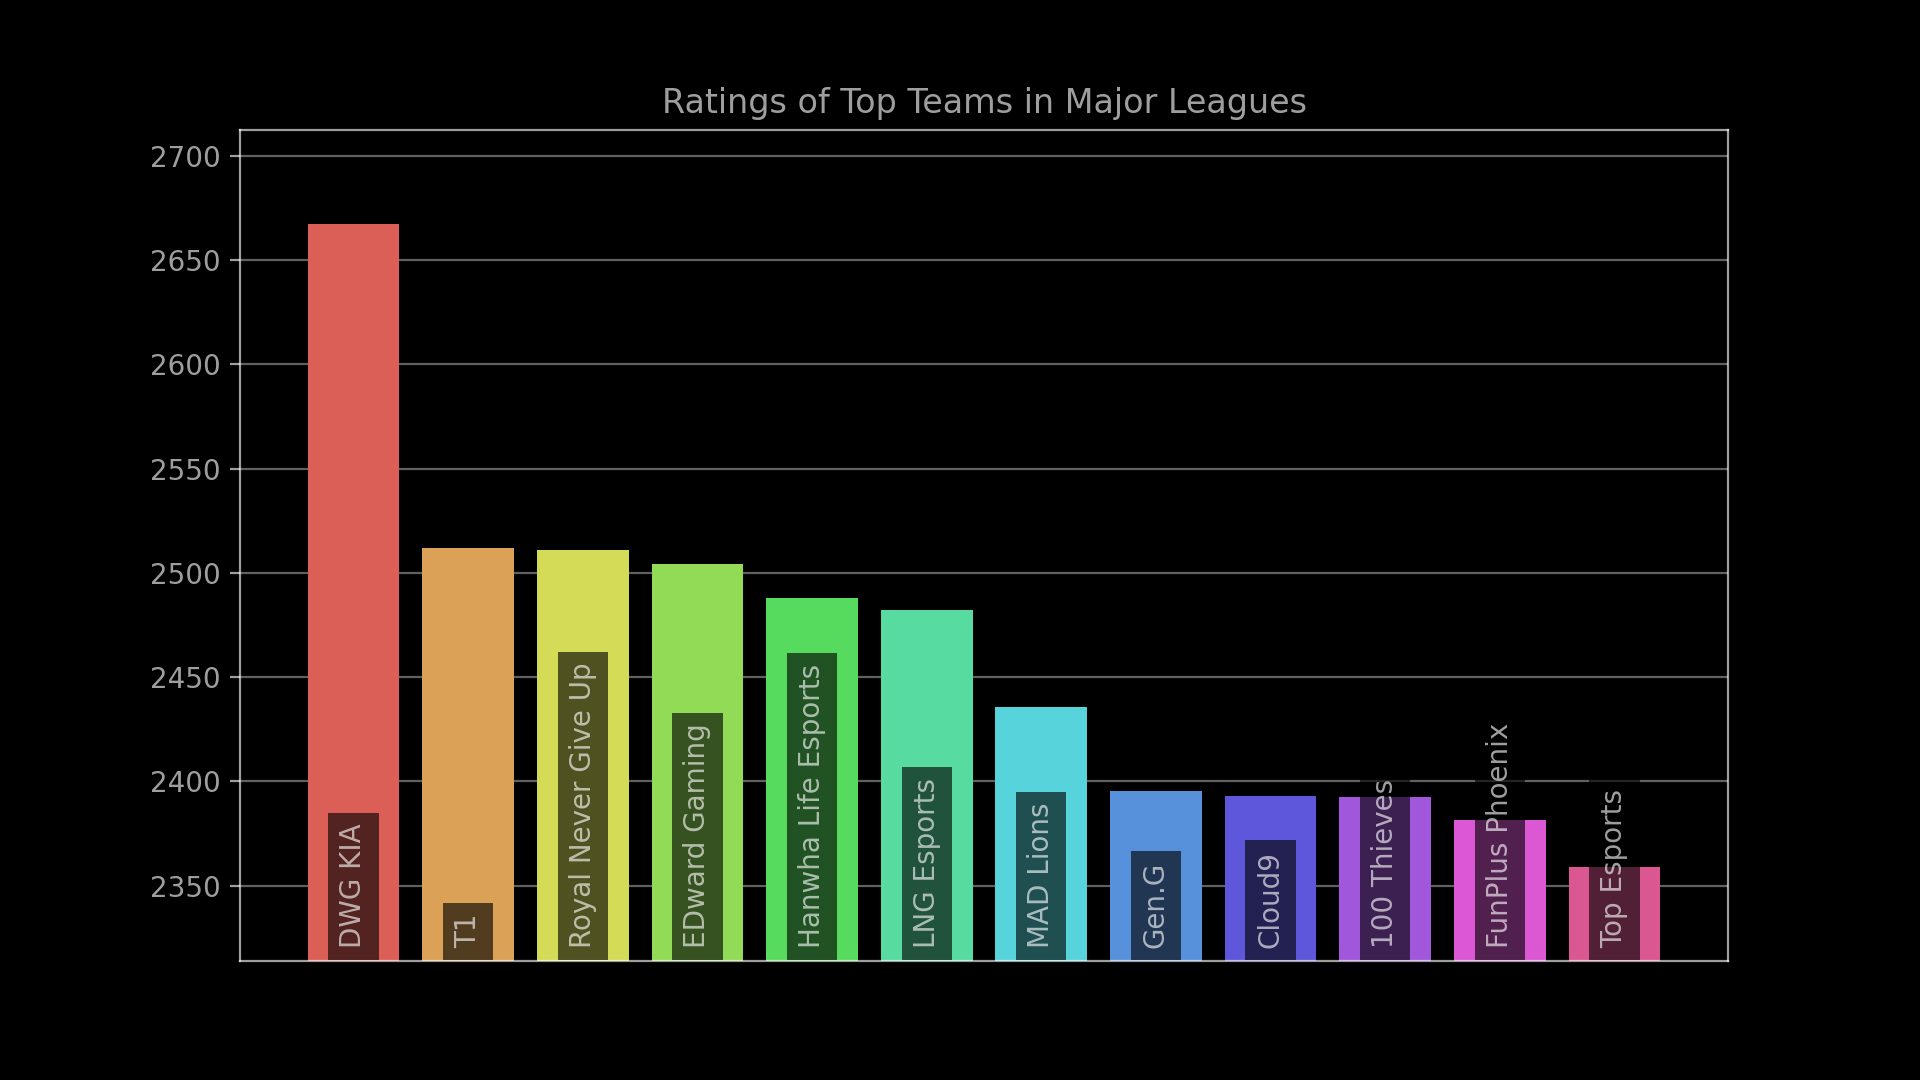
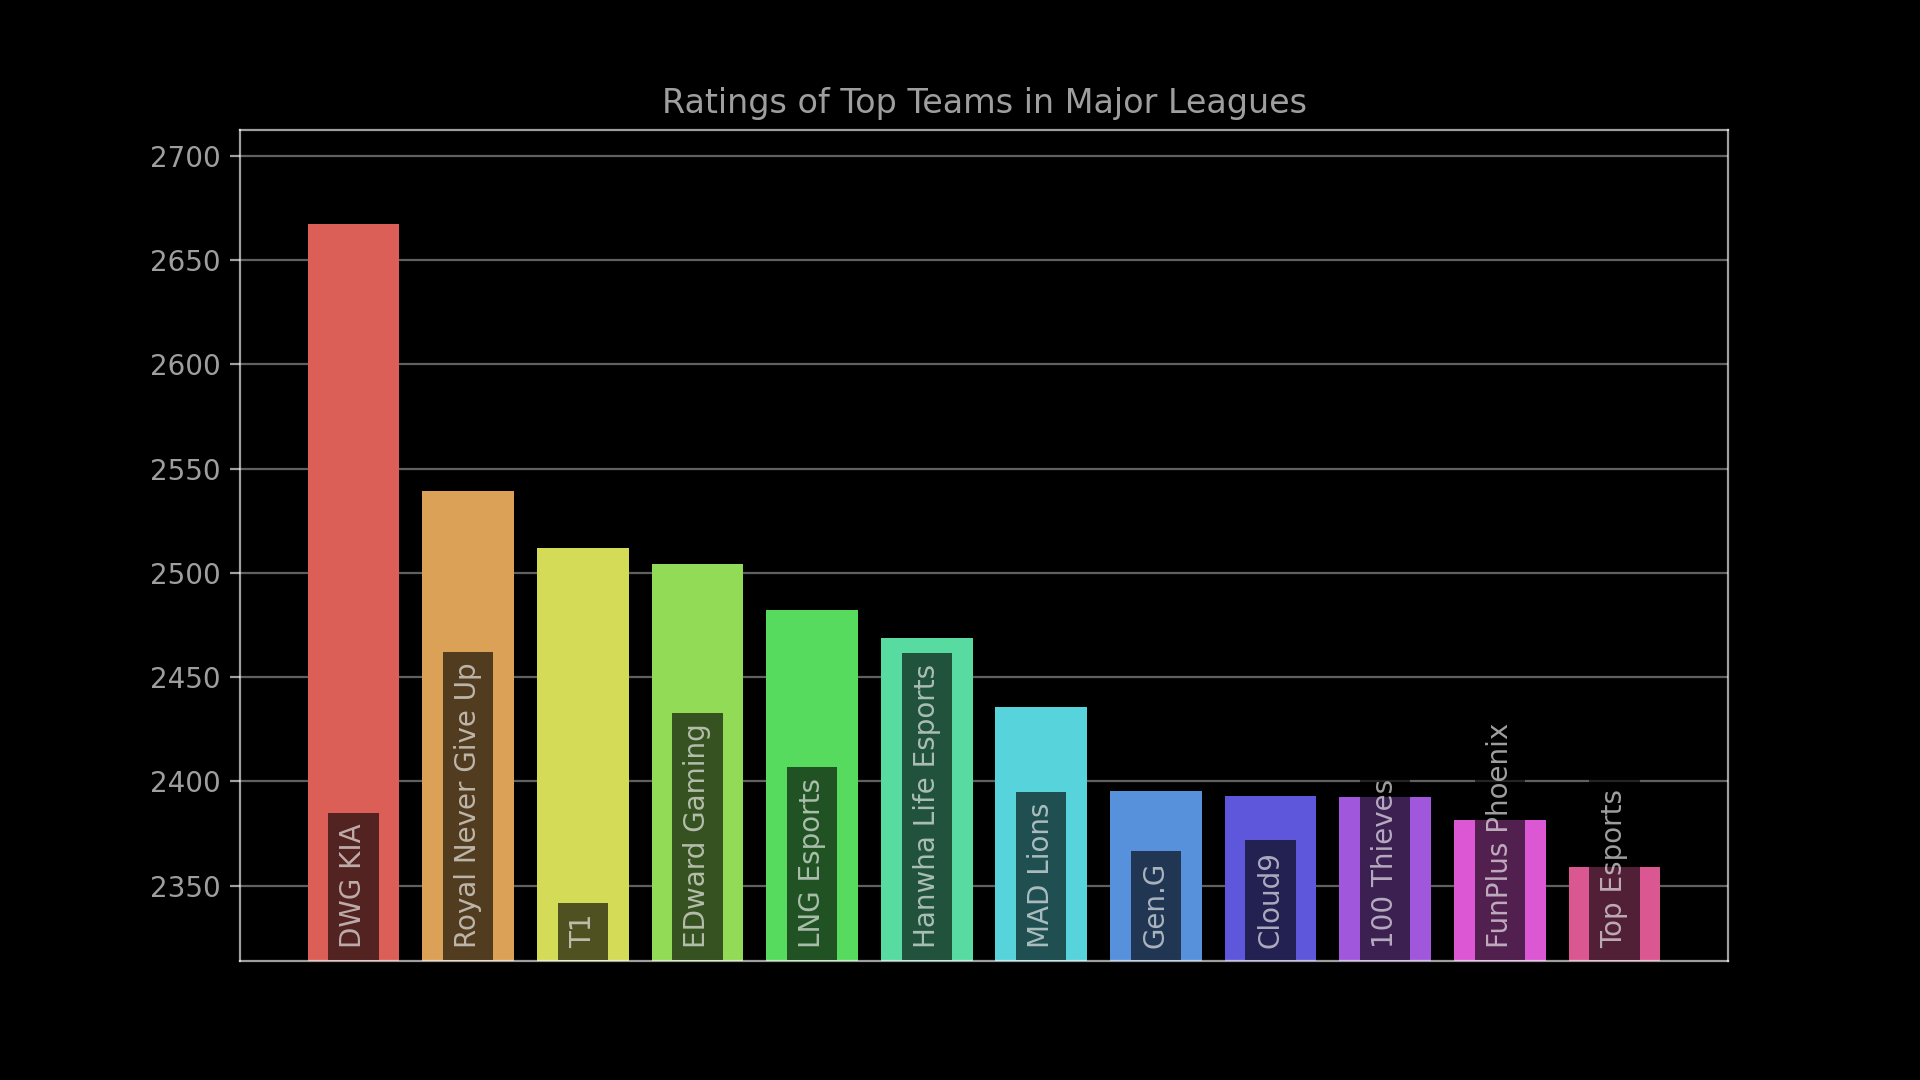
Update rating charts for 2021-10-17 19:00:00.

Changed region(s): [[0.2188, 0.5806, 0.3438, 0.8861], [0.4062, 0.55, 0.5312, 0.8861], [0.2188, 0.4278, 0.2812, 0.5194]]

diff --git a/index.html b/index.html
@@ -77,11 +77,11 @@
             </thead>
             <tbody class="list">
                 <tr><td style="text-align: right">1</td><td class="name">DWG KIA</td><td class="league" style="text-align: center">LCK</td><td class="rating" style="text-align: center">2667.5</td><td class="diff" style="text-align: center; white-space: nowrap"><span style="color: #4CAF50">&plus;105.2</span></td></tr>
-            <tr><td style="text-align: right">2</td><td class="name">T1</td><td class="league" style="text-align: center">LCK</td><td class="rating" style="text-align: center">2511.7</td><td class="diff" style="text-align: center; white-space: nowrap"><span style="color: #4CAF50">&plus;98.2</span></td></tr>
-            <tr><td style="text-align: right">3</td><td class="name">Royal Never Give Up</td><td class="league" style="text-align: center">LPL</td><td class="rating" style="text-align: center">2510.7</td><td class="diff" style="text-align: center; white-space: nowrap"><span style="color: #F44336">&minus;14.9</span></td></tr>
+            <tr><td style="text-align: right">2</td><td class="name">Royal Never Give Up</td><td class="league" style="text-align: center">LPL</td><td class="rating" style="text-align: center">2539.1</td><td class="diff" style="text-align: center; white-space: nowrap"><span style="color: #4CAF50">&plus;13.4</span></td></tr>
+            <tr><td style="text-align: right">3</td><td class="name">T1</td><td class="league" style="text-align: center">LCK</td><td class="rating" style="text-align: center">2511.7</td><td class="diff" style="text-align: center; white-space: nowrap"><span style="color: #4CAF50">&plus;98.2</span></td></tr>
             <tr><td style="text-align: right">4</td><td class="name">EDward Gaming</td><td class="league" style="text-align: center">LPL</td><td class="rating" style="text-align: center">2504.1</td><td class="diff" style="text-align: center; white-space: nowrap"><span style="color: #F44336">&minus;32.3</span></td></tr>
-            <tr><td style="text-align: right">5</td><td class="name">Hanwha Life Esports</td><td class="league" style="text-align: center">LCK</td><td class="rating" style="text-align: center">2487.7</td><td class="diff" style="text-align: center; white-space: nowrap"><span style="color: #4CAF50">&plus;46.8</span></td></tr>
-            <tr><td style="text-align: right">6</td><td class="name">LNG Esports</td><td class="league" style="text-align: center">LPL</td><td class="rating" style="text-align: center">2482.3</td><td class="diff" style="text-align: center; white-space: nowrap"><span style="color: #4CAF50">&plus;31.4</span></td></tr>
+            <tr><td style="text-align: right">5</td><td class="name">LNG Esports</td><td class="league" style="text-align: center">LPL</td><td class="rating" style="text-align: center">2482.3</td><td class="diff" style="text-align: center; white-space: nowrap"><span style="color: #4CAF50">&plus;31.4</span></td></tr>
+            <tr><td style="text-align: right">6</td><td class="name">Hanwha Life Esports</td><td class="league" style="text-align: center">LCK</td><td class="rating" style="text-align: center">2468.6</td><td class="diff" style="text-align: center; white-space: nowrap"><span style="color: #4CAF50">&plus;27.6</span></td></tr>
             <tr><td style="text-align: right">7</td><td class="name">PSG Talon</td><td class="league" style="text-align: center">PCS</td><td class="rating" style="text-align: center">2461.9</td><td class="diff" style="text-align: center; white-space: nowrap"><span style="color: #F44336">&minus;15.1</span></td></tr>
             <tr><td style="text-align: right">8</td><td class="name">MAD Lions</td><td class="league" style="text-align: center">LEC</td><td class="rating" style="text-align: center">2435.8</td><td class="diff" style="text-align: center; white-space: nowrap"><span style="color: #F44336">&minus;37.7</span></td></tr>
             <tr><td style="text-align: right">9</td><td class="name">Gen.G</td><td class="league" style="text-align: center">LCK</td><td class="rating" style="text-align: center">2395.6</td><td class="diff" style="text-align: center; white-space: nowrap"><span style="color: #4CAF50">&plus;31.1</span></td></tr>

diff --git a/assets/js/chart-config.js b/assets/js/chart-config.js
@@ -3,10 +3,10 @@ const MONTH_ABBREVIATIONS = ["Jan", "Feb", "Mar", "Apr", "May", "Jun", "Jul", "A
 const topChartConfig = {
     type: "bar",
     data: {
-        labels: ['DWG KIA', 'T1', 'Royal Never Give Up', 'EDward Gaming', 'Hanwha Life Esports', 'LNG Esports', 'MAD Lions', 'Gen.G', 'Cloud9', '100 Thieves', 'FunPlus Phoenix', 'Top Esports'],
+        labels: ['DWG KIA', 'Royal Never Give Up', 'T1', 'EDward Gaming', 'LNG Esports', 'Hanwha Life Esports', 'MAD Lions', 'Gen.G', 'Cloud9', '100 Thieves', 'FunPlus Phoenix', 'Top Esports'],
         datasets: [{
             backgroundColor: ['#dc5f57', '#dca157', '#d4dc57', '#91dc57', '#57dc5f', '#57dca1', '#57d4dc', '#5791dc', '#5f57dc', '#a157dc', '#dc57d4', '#dc5791'],
-            data: [2667.475752135994, 2511.6879446870657, 2510.738287999239, 2504.142926627319, 2487.745994103384, 2482.2936444367374, 2435.7814562964663, 2395.5787621921963, 2392.8668374178997, 2392.5403855259237, 2381.7010883286844, 2358.8275642289427],
+            data: [2667.475752135994, 2539.102646002875, 2511.6879446870657, 2504.142926627319, 2482.2936444367374, 2468.5615321778664, 2435.7814562964663, 2395.5787621921963, 2392.8668374178997, 2392.5403855259237, 2381.7010883286844, 2358.8275642289427],
             label: "Rating Points"
         }]
     },

diff --git a/README.md b/README.md
@@ -46,11 +46,11 @@ confidence interval of the rating.
 | | Team | Rating | RD |
 | --: | --- | :-: | :-: |
 | 1 | DWG KIA | 2667.5 | 80.3 |
-| 2 | T1 | 2511.7 | 73.4 |
-| 3 | Royal Never Give Up | 2510.7 | 78.4 |
+| 2 | Royal Never Give Up | 2539.1 | 74.9 |
+| 3 | T1 | 2511.7 | 73.4 |
 | 4 | EDward Gaming | 2504.1 | 76.2 |
-| 5 | Hanwha Life Esports | 2487.7 | 63.0 |
-| 6 | LNG Esports | 2482.3 | 71.7 |
+| 5 | LNG Esports | 2482.3 | 71.7 |
+| 6 | Hanwha Life Esports | 2468.6 | 61.2 |
 | 7 | MAD Lions | 2435.8 | 86.2 |
 | 8 | Gen.G | 2395.6 | 84.9 |
 | 9 | Cloud9 | 2392.9 | 60.3 |
